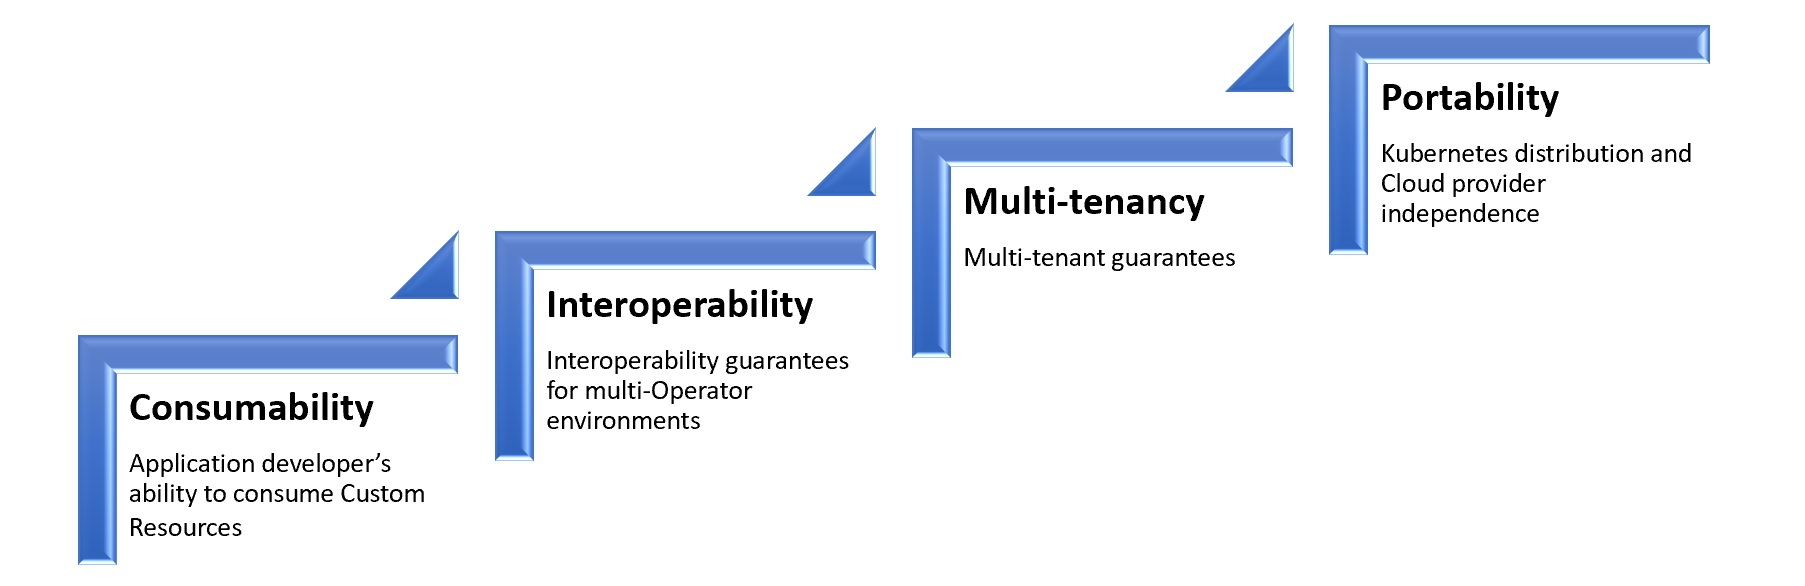
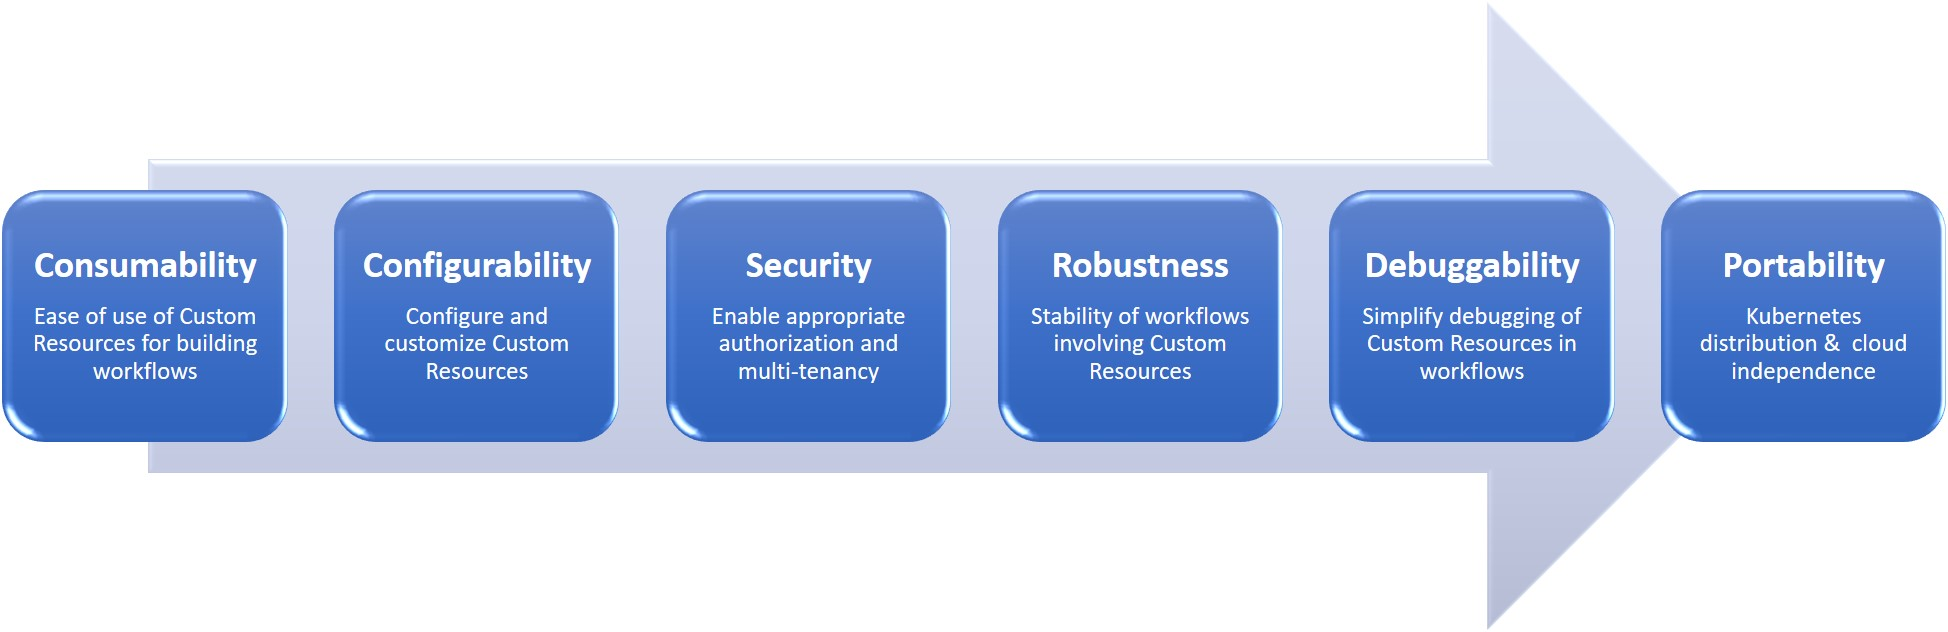
Operator Maturity Model updates

diff --git a/Operator-Maturity-Model.md b/Operator-Maturity-Model.md
@@ -11,7 +11,7 @@ We are developing Kubernetes Operator Maturity Model for Multi-Operator Stacks w
 A Kubernetes Operator extends Kubernetes control plane to perform domain-specific workflow actions using declarative resource definitions. Operators are being built today for a variety of softwares such as MySQL, Postgres, Cassandra, Airflow, Kafka, Prometheus, Moodle, Wordpress, etc. Increasingly enterprises are running diverse workloads like SaaS, AI, Analytics, ML, Edge networking, CI/CD etc. on Kubernetes. It is becoming increasingly common to use more than one Operator
 in order to run such workloads. The typical challenges that enterprises face today include figuring out which Operators are appropriate for their workloads, how to use various Custom and Kubernetes's built-in resources to create the workflows required for running their workloads on Kubernetes, ensuring that the workflows are portable across Kubernetes distributions and cloud providers, etc.
 
-There is a need for enterprises to understand the enterprise readiness of Operators and how to use them to build the workflows required for running diverse workloads on Kubernetes. The Kubernetes Operator maturity model addresses this need. This model has emerged from our experience of working alongside Operator authors as well as enterprises who are adopting Kubernetes and are using Operators. The model consists of set of guidelines related to consumability, configurability, security, robustness, debuggability and portability of Operators. The guidelines are available [here](https://github.com/cloud-ark/kubeplus/blob/master/Guidelines.md). Operators that satisfy these properties are easy to consume by application developers, support multi-tenant workloads and are portable across cloud providers.
+There is a need for enterprises to understand the enterprise readiness of Operators and how to use them to build the workflows required for running diverse workloads on Kubernetes. The Kubernetes Operator maturity model addresses this need. This model has emerged from our experience of working alongside Operator authors as well as enterprises who are adopting Kubernetes and are using Operators. The model consists of set of guidelines related to consumability, configurability, security, robustness, debuggability and portability of Operators. The guidelines are available [here](https://github.com/cloud-ark/kubeplus/blob/master/Guidelines.md). Operators that satisfy these properties are easy to consume in multi-Operator setups, support multi-tenant workloads and are portable across cloud providers.
 
 ![](./docs/Maturity-Model.jpg)
 

diff --git a/Guidelines.md b/Guidelines.md
@@ -5,6 +5,9 @@ Below we present the guidelines related to consumability, configurability, secur
 
 ## Consumability
 
+Consumability guidelines focus on accessibility properties of Custom Resources 
+that make it easy for application developers to build Custom Resource workflows.
+
 [1. Design Custom Resource as a declarative API and avoid inputs as imperative actions](https://github.com/cloud-ark/kubeplus/blob/master/Guidelines.md#design-custom-resource-as-a-declarative-api-and-avoid-inputs-as-imperative-actions)
 
 [2. Make Custom Resource Type definitions compliant with Kube OpenAPI](https://github.com/cloud-ark/kubeplus/blob/master/Guidelines.md#make-custom-resource-type-definitions-compliant-with-kube-openapi)
@@ -16,7 +19,7 @@ Below we present the guidelines related to consumability, configurability, secur
 
 ## Configurability
 
-Configurability guidelines focus on configurations of Custom Resources, configuration of Operator deployments, configuration requirements to ensure that Custom Resource workflows are not tied to any specific Kubernetes distribution or cloud provider, and accessibility of Custom Resource workflows.
+Configurability guidelines focus on configuration and customization of Custom Resource workflows. 
 
 [5. Define inter Custom Resource binding information in Spec Properties](https://github.com/cloud-ark/kubeplus/blob/master/Guidelines.md#define-inter-custom-resource-binding-information-in-spec-properties)
 
@@ -29,8 +32,8 @@ Configurability guidelines focus on configurations of Custom Resources, configur
 
 ## Security
 
-Security guidelines focus on Operator support of multi-tenancy via namespaces, authorization related properties of 
-Custom Resource workflows, security related properties of Custom Resource Pods, their secure placement on a cluster, and network traffic constraints of Custom Resource Pods.
+Security guidelines focus on Operator support of multi-tenancy and ability to define appropriate authorization controls
+for workflows.
 
 [9. Document Service Account needs of your Operator](https://github.com/cloud-ark/kubeplus/blob/master/Guidelines.md#document-service-account-needs-of-your-operator)
 
@@ -84,6 +87,8 @@ Debuggability guidelines focus on Operator and Custom Resource properties that e
 
 ## Portability
 
+Portability guidelines focus on Operator and Custom Resource properties that enable deploying the Operators and workflows
+on any Kubernetes distribution, on-prem or on cloud.
 
 [28. Package Operator as Helm Chart](https://github.com/cloud-ark/kubeplus/blob/master/Guidelines.md#package-operator-as-helm-chart)
 
